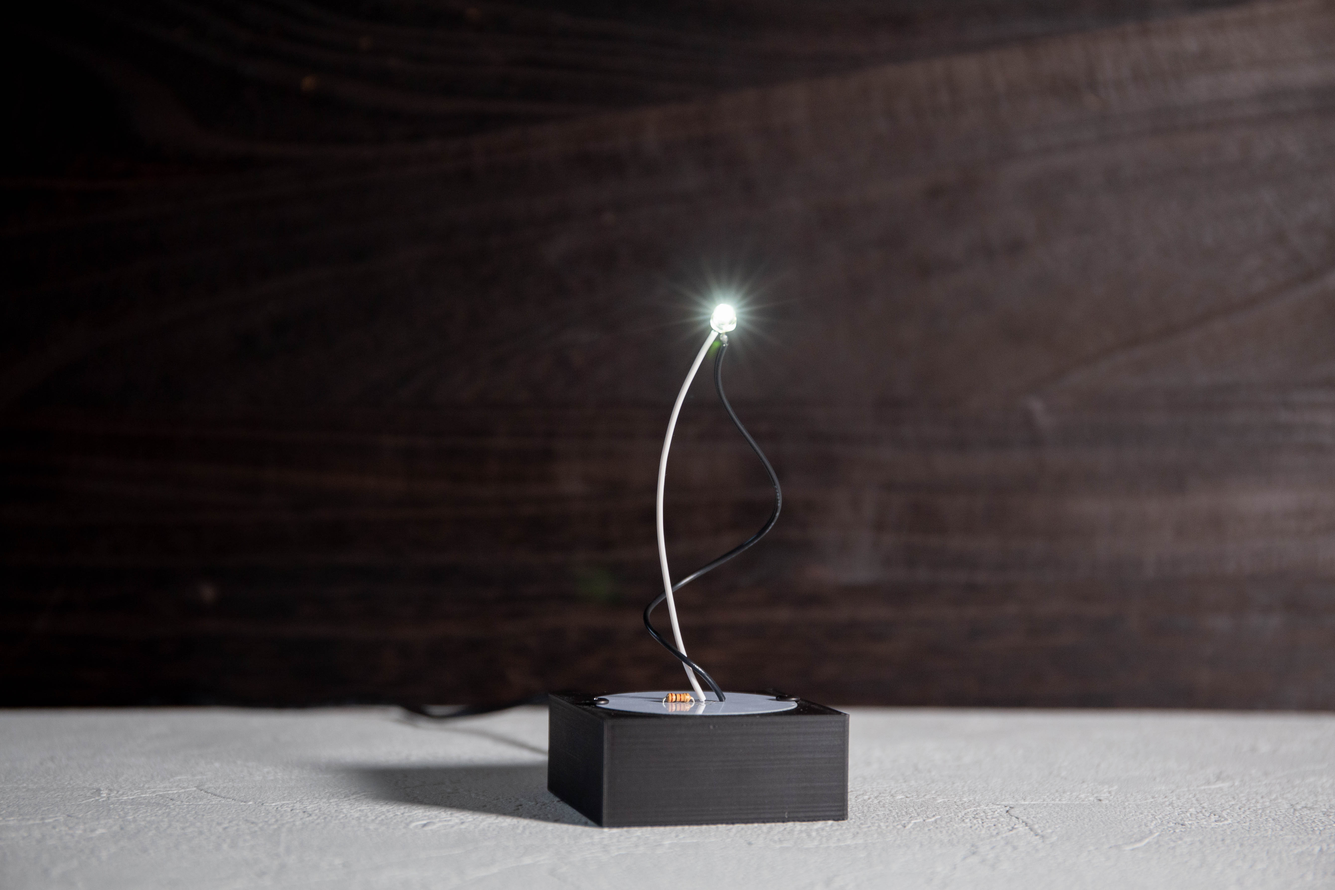
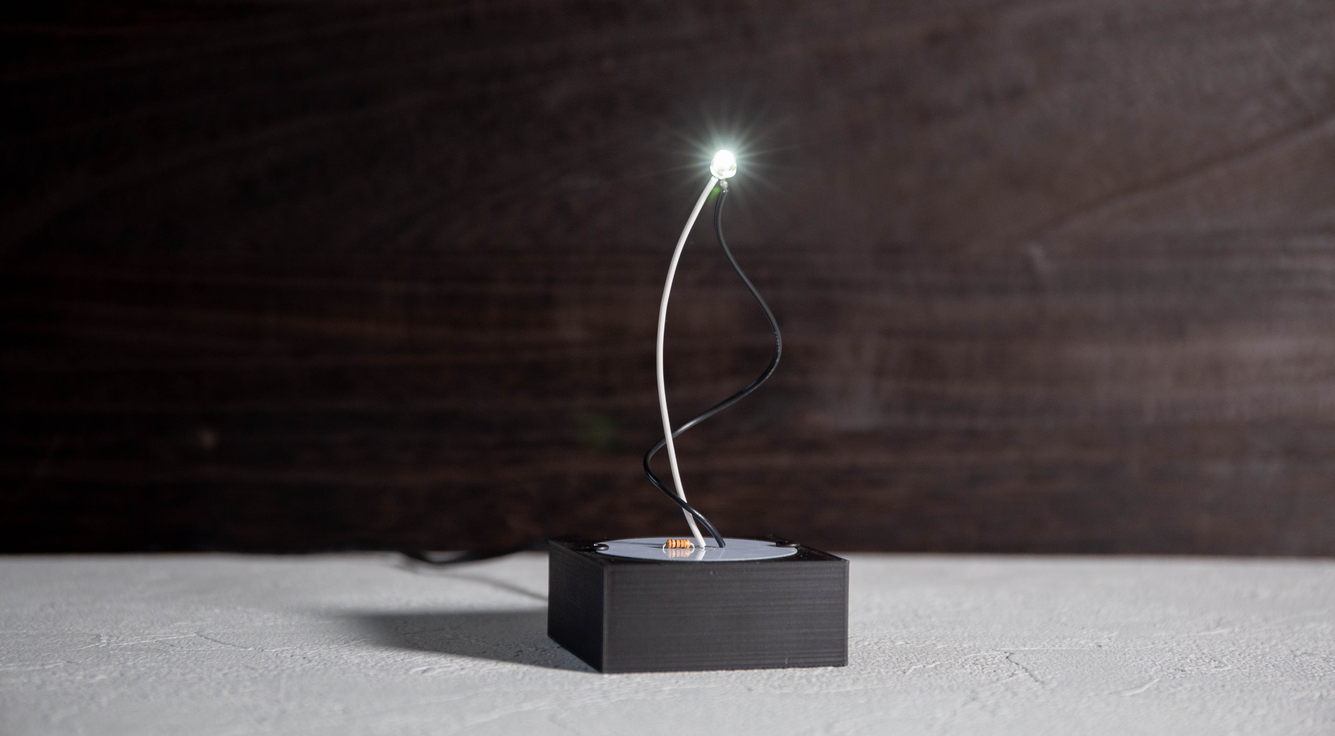
完成図を追加

diff --git a/howtomake/02_Making.md b/howtomake/02_Making.md
@@ -43,9 +43,13 @@
 
 ## LED点灯回路をいける
 
+![完成品](assets/led_basic.jpg)
+
+この解説では、LEDをいけていきます。電源側から抵抗を介してLEDの＋（アノード）側に白い線で接続し、ー（カソード）側から黒い線を伸ばしてグラウンドに接続しています。
+
 ### 用意するもの
 
-ここでは、基本キットに含まれるものを使って解説していきます。
+基本キットに含まれるものを使って解説していきます。
 
 ![基本キット写真](assets/kit.jpg)
 
